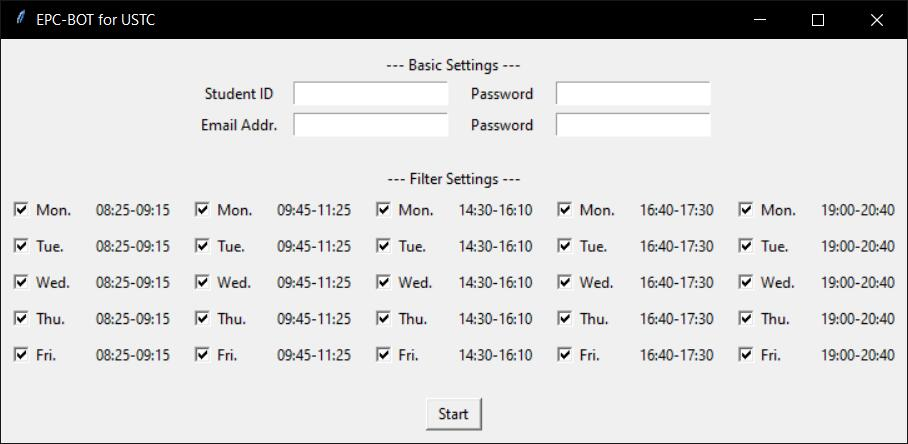
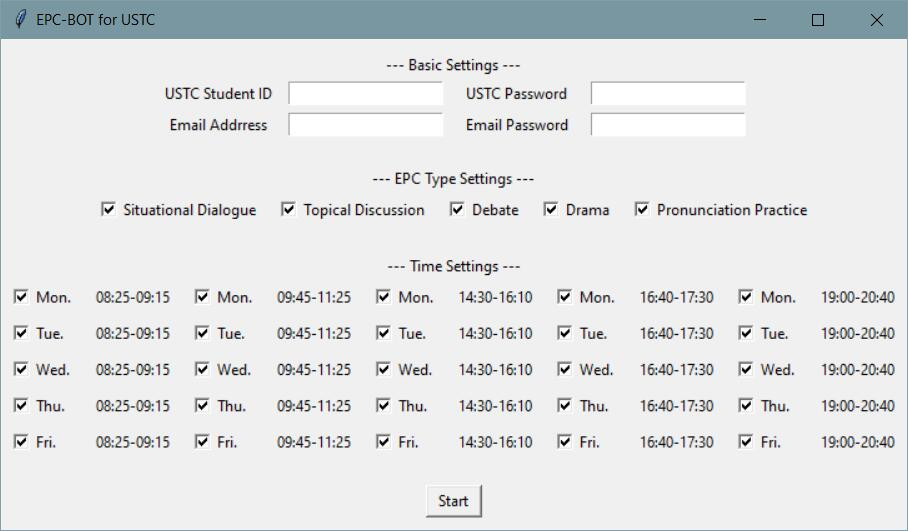
重写GUI, 新增EPC课程种类选择的复选框

diff --git a/graphic.py b/graphic.py
@@ -1,147 +1,208 @@
+import os, shutil, inspect
+import json
+import threading
+import traceback
 from tkinter import *
 from tkinter.scrolledtext import *
 from tkinter.messagebox import showinfo
-import os, inspect, json, threading, traceback
 from epc_bot import *
 
 class GUI:
 
     def __init__(self, master):
+        # 设置工作目录, 读取配置文件
+        self.work_dir = os.path.realpath(os.path.abspath(
+            os.path.split(inspect.getfile(inspect.currentframe()))[0]
+        ))
+        self.read_config()
+
+        # 新建master窗口
         self.master = master
         self.master.title("EPC-BOT for USTC")
         self.master.protocol('WM_DELETE_WINDOW', self.on_gui_destroy)
 
-        self.work_dir = os.path.realpath(os.path.abspath(
-            os.path.split(inspect.getfile(inspect.currentframe()))[0]
-        ))
+        # 新建frame布局, 用于填写用户的基本信息
+        self.basic_frame = Frame(self.master)
+        self.basic_frame.grid(row=0, pady=10)
+        Label(self.basic_frame, text="--- Basic Settings ---").grid(row=0, columnspan=4)
+        self.ustc_id_label = Label(self.basic_frame, text="USTC Student ID")
+        self.ustc_id_label.grid(row=1, column=0, padx=5, pady=2)
+        self.ustc_id_entry = Entry(self.basic_frame)
+        self.ustc_id_entry.grid(row=1, column=1, padx=5, pady=2)
+        self.ustc_pwd_label = Label(self.basic_frame, text="USTC Password")
+        self.ustc_pwd_label.grid(row=1, column=2, padx=10, pady=2)
+        self.ustc_pwd_entry = Entry(self.basic_frame)
+        self.ustc_pwd_entry.grid(row=1, column=3, padx=5, pady=2)
+        self.email_addr_label = Label(self.basic_frame, text="Email Addrress")
+        self.email_addr_label.grid(row=2, column=0, padx=5, pady=2)
+        self.email_addr_entry = Entry(self.basic_frame)
+        self.email_addr_entry.grid(row=2, column=1, padx=5, pady=2)
+        self.email_pwd_label = Label(self.basic_frame, text="Email Password")
+        self.email_pwd_label.grid(row=2, column=2, padx=10, pady=2)
+        self.email_pwd_entry = Entry(self.basic_frame)
+        self.email_pwd_entry.grid(row=2, column=3, padx=5, pady=2)
 
-        self.frame_basic = Frame(master)
-        self.frame_basic.grid(row=0, pady=10)
-        Label(self.frame_basic, text="--- Basic Settings ---").grid(row=0, columnspan=4)
-        self.label_userid = Label(self.frame_basic, text="Student ID")
-        self.label_userid.grid(row=1, column=0, padx=5, pady=2)
-        self.text_userid = Entry(self.frame_basic)
-        self.text_userid.grid(row=1, column=1, padx=5, pady=2)
-        self.label_passwd1 = Label(self.frame_basic, text="Password")
-        self.label_passwd1.grid(row=1, column=2, padx=10, pady=2)
-        self.text_passwd1 = Entry(self.frame_basic)
-        self.text_passwd1.grid(row=1, column=3, padx=5, pady=2)
-        self.label_email = Label(self.frame_basic, text="Email Addr.")
-        self.label_email.grid(row=2, column=0, padx=5, pady=2)
-        self.text_email = Entry(self.frame_basic)
-        self.text_email.grid(row=2, column=1, padx=5, pady=2)
-        self.label_passwd2 = Label(self.frame_basic, text="Password")
-        self.label_passwd2.grid(row=2, column=2, padx=10, pady=2)
-        self.text_passwd2 = Entry(self.frame_basic)
-        self.text_passwd2.grid(row=2, column=3, padx=5, pady=2)
+        # 新建frame布局, 用于勾选所有允许选课的课程种类
+        self.type_filter_frame = Frame(self.master)
+        self.type_filter_frame.grid(row=1, pady=10)
+        Label(self.type_filter_frame, text="--- EPC Type Settings ---") \
+            .grid(row=0, columnspan=5)
 
-        self.frame_filter = Frame(master)
-        self.frame_filter.grid(row=1, pady=10)
-        Label(self.frame_filter, text="--- Filter Settings ---").grid(row=0, columnspan=5)
-        template_dir = os.path.join(self.work_dir, "config.template.json")
-        if os.path.exists(template_dir):
-            with open(template_dir, "r", encoding="utf-8") as template_file:
-                self.filters_all = json.load(template_file)["filter"]
-                self.filters_var = list()
-                self.cbtn_filters = list()
-                row, col = 1, 0
-                for i in range(len(self.filters_all)):
-                    if (i%5 == 0):
-                        row = row + 1
-                        col = -1
-                    col = col + 1
-                    filter_str = self.filters_all[i]["wday"][0:3] + ".\t" + self.filters_all[i]["time"]
-                    self.filters_var.append(IntVar())
-                    cbtn_filter = Checkbutton(self.frame_filter, text=filter_str, variable=self.filters_var[i])
-                    cbtn_filter.grid(row=row, column=col, padx=5, pady=2)
-                    cbtn_filter.deselect()
-                    self.cbtn_filters.append(cbtn_filter)
-        else:
-            showerror(title="Error", message="Configuration template is missing!")
-            self.master.destroy()
+        # 遍历配置模板文件中的全部课程种类, 新建同名checkbutton元素
+        self.type_filter_checked = list()
+        self.type_filter_elements = list()
+        for i in range(len(self.type_filter)):
+            # 新建checkbutton元素
+            self.type_filter_checked.append(IntVar())
+            element_name = self.type_filter[i]["type"]
+            element = Checkbutton(self.type_filter_frame, text=element_name, \
+                variable=self.type_filter_checked[i])
+            element.grid(row=1, column=i, padx=5, pady=2)
+            self.type_filter_elements.append(element)
 
-        self.btn_start = Button(master, text="Start", command=self.start_bot)
-        self.btn_start.grid(row=2, ipadx=self.btn_start.winfo_width()*5, pady=10)
+        # 新建frame布局, 用于勾选所有允许选课的时间段
+        self.wday_filter_frame = Frame(self.master)
+        self.wday_filter_frame.grid(row=2, pady=10)
+        Label(self.wday_filter_frame, text="--- Time Settings ---") \
+            .grid(row=0, columnspan=5)
 
-        self.read_config()
+        # 遍历配置模板文件中的全部时间段, 新建同名checkbutton元素
+        self.wday_filter_checked = list()
+        self.wday_filter_elements = list()
+        row, col = 1, 0
+        for i in range(len(self.wday_filter)):
+            # 每行排列五个checkbutton元素, 计算行列坐标
+            if (i%5 == 0):
+                row = row + 1
+                col = -1
+            col = col + 1
 
-    ## 读取工作目录下存储的配置文件
+            # 新建checkbutton元素
+            self.wday_filter_checked.append(IntVar())
+            element_name = "%s.\t%s" % \
+                (self.wday_filter[i]["wday"][0:3], self.wday_filter[i]["time"])
+            element = Checkbutton(self.wday_filter_frame, text=element_name, \
+                variable=self.wday_filter_checked[i])
+            element.grid(row=row, column=col, padx=5, pady=2)
+            self.wday_filter_elements.append(element)
+            
+        
+        # 新建button元素, 用于开启bot
+        self.start_button = Button(self.master, text="Start", command=self.start_bot)
+        self.start_button.grid(row=3, ipadx=self.start_button.winfo_width()*5, pady=10)
+
+        # 应用配置文件中的设置
+        self.apply_config()
+
+
+    # ================================================================
+    # 读取工作目录下存储的配置文件
+    # ================================================================
     def read_config(self):
-        try:
-            config_dir = os.path.join(self.work_dir, "config.json")
-            with open(config_dir, "r", encoding="utf-8") as config:
-                config = json.load(config)
-            self.sid = config["sid"]
-            self.passwd = config["passwd"]
-            self.filters_json = config["filter"]
-            self.email_addr = config["email_addr"]
-            self.email_pwd = config["email_pwd"]
-            self.text_userid.insert(0, self.sid)
-            self.text_passwd1.insert(0, self.passwd)
-            self.text_email.insert(0, self.email_addr)
-            self.text_passwd2.insert(0, self.email_pwd)
-            for filter_json in self.filters_json:
-                ind = self.filters_all.index(filter_json)
-                self.cbtn_filters[ind].select()
-            print("Config Load Successfully")
-        except:
-            for cbtn_filter in self.cbtn_filters:
-                cbtn_filter.select()
-            print("Config Load Failed")
+        config_dir = os.path.join(self.work_dir, "config.json")
+        if not os.path.exists(config_dir):
+            shutil.copy("config.template.json", "config.json")
+        with open(config_dir, "r", encoding="utf-8") as config:
+            config = json.load(config)
+        self.ustc_id = config["ustc_id"]
+        self.ustc_pwd = config["ustc_pwd"]
+        self.email_addr = config["email_addr"]
+        self.email_pwd = config["email_pwd"]
+        self.type_filter = config["type_filter"]
+        self.wday_filter = config["wday_filter"]
 
-    ## 写入最新的配置文件
+
+    # ================================================================
+    # 读取工作目录下存储的配置文件
+    # ================================================================
+    def apply_config(self):
+        self.ustc_id_entry.insert(0, self.ustc_id)
+        self.ustc_pwd_entry.insert(0, self.ustc_pwd)
+        self.email_addr_entry.insert(0, self.email_addr)
+        self.email_pwd_entry.insert(0, self.email_pwd)
+        for i in range(len(self.type_filter)):
+            if self.type_filter[i]["enable"]:
+                self.type_filter_elements[i].select()
+            else:
+                self.type_filter_elements[i].deselect()
+        for i in range(len(self.wday_filter)):
+            if self.wday_filter[i]["enable"]:
+                self.wday_filter_elements[i].select()
+            else:
+                self.wday_filter_elements[i].deselect()
+
+
+    # ================================================================
+    # 写入最新的配置文件
+    # ================================================================
     def write_config(self):
-        config = {}
-        config["sid"] = self.sid
-        config["passwd"] = self.passwd
-        config["filter"] = self.filters_json
+        config = dict()
+        config["ustc_id"] = self.ustc_id
+        config["ustc_pwd"] = self.ustc_pwd
         config["email_addr"] = self.email_addr
         config["email_pwd"] = self.email_pwd
+        config["type_filter"] = self.type_filter
+        config["wday_filter"] = self.wday_filter
         with open("config.json", "w", encoding="utf-8") as f:
             json.dump(config, f, ensure_ascii=False, indent=4)
-        
-    ## 启动EPC-BOT
+    
+
+    # ================================================================
+    # 启动EPC-BOT
+    # ================================================================
     def start_bot(self):
-        self.sid = self.text_userid.get()
-        self.passwd = self.text_passwd1.get()
-        self.email_addr = self.text_email.get()
-        self.email_pwd = self.text_passwd2.get()
-        self.filters_json = list()
-        for ind in range(len(self.filters_all)):
-            if (self.filters_var[ind].get()):
-                self.filters_json.append(self.filters_all[ind])
-        if (len(self.sid) and len(self.passwd) \
+        # 获取最新设置
+        self.ustc_id = self.ustc_id_entry.get()
+        self.ustc_pwd = self.ustc_pwd_entry.get()
+        self.email_addr = self.email_addr_entry.get()
+        self.email_pwd = self.email_pwd_entry.get()
+        for i in range(len(self.type_filter_elements)):
+            self.type_filter[i]["enable"] = bool(self.type_filter_checked[i].get())
+        for i in range(len(self.wday_filter_elements)):
+            self.wday_filter[i]["enable"] = bool(self.wday_filter_checked[i].get())
+        
+        # 如果基本设置不为空, 则写入配置文件
+        if (len(self.ustc_id) and len(self.ustc_pwd) \
             and len(self.email_addr) and len(self.email_pwd)):
             self.write_config()
         else:
-            showinfo(title="Alert", message="Please fill the blanks in basic settings module!")
+            showinfo(title="Alert", \
+                message="Please fill the blanks in basic settings module!")
             return
             
         self.master.resizable(False, False)
-        self.frame_basic.grid_forget()
-        self.frame_filter.grid_forget()
-        self.btn_start.grid_forget()
+        self.basic_frame.grid_forget()
+        self.type_filter_frame.grid_forget()
+        self.wday_filter_frame.grid_forget()
+        self.start_button.grid_forget()
         self.console = ScrolledText(self.master)
         self.console.pack()
         self.update_log("Working Directory:\n%s\n" % self.work_dir)
 
+        # 启动bot
         try:
-            self.bot = EPCBot(self.sid, self.passwd, self.filters_json, \
-                self.email_addr, self.email_pwd, self)
+            self.bot = EPCBot(self.ustc_id, self.ustc_pwd, self.email_addr, \
+                self.email_pwd, self.wday_filter, self)
             self.bot.start()
             self.update_log("EPC-Bot is running...\n")
         except Exception as e:
             self.update_log("Chrome driver is not installed!")
             self.update_log(traceback.format_exc())
         
-    ## 更新EPC-BOT日志到GUI
+    
+    # ================================================================
+    # 更新EPC-BOT日志到GUI
+    # ================================================================
     def update_log(self, text):
         self.console.configure(state="normal")
         self.console.insert(END, text + "\n")
         self.console.configure(state="disabled")
         self.console.see(END)
 
-    ## 关闭GUI时杀死子线程
+
+    # ================================================================
+    # 关闭GUI时杀死子线程
+    # ================================================================
     def on_gui_destroy(self):
         self.master.destroy()
         try:

diff --git a/epc_bot.py b/epc_bot.py
@@ -37,7 +37,7 @@ class EPCBot(threading.Thread):
     CREDITS = 0     # 已预约课程总学时
 
 
-    def __init__(self, sid, passwd, filtr, email_addr, email_pwd, gui=None):
+    def __init__(self, sid, passwd, email_addr, email_pwd, filtr, gui=None):
         super(EPCBot, self).__init__(daemon=True)
         self._STOP_FLAG = threading.Event()
         self.GRAPHIC = gui
